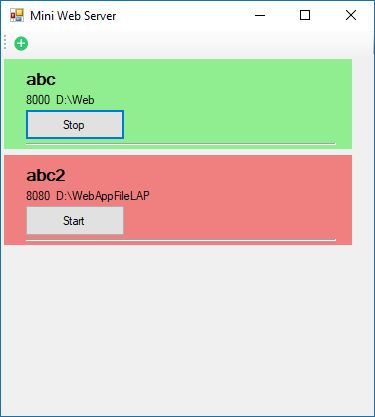
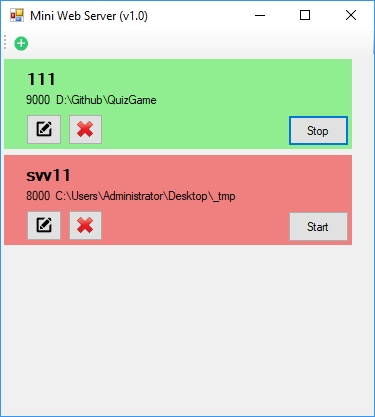
Update UI

diff --git a/MiniWebServer/Components/WebListItem.Designer.cs b/MiniWebServer/Components/WebListItem.Designer.cs
@@ -28,11 +28,14 @@
         /// </summary>
         private void InitializeComponent()
         {
+            this.components = new System.ComponentModel.Container();
+            System.ComponentModel.ComponentResourceManager resources = new System.ComponentModel.ComponentResourceManager(typeof(WebListItem));
             this.btnStart = new System.Windows.Forms.Button();
             this.lblPath = new System.Windows.Forms.Label();
             this.lblName = new System.Windows.Forms.Label();
             this.btnRemove = new System.Windows.Forms.Button();
             this.btnUpdate = new System.Windows.Forms.Button();
+            this.toolTip1 = new System.Windows.Forms.ToolTip(this.components);
             this.SuspendLayout();
             // 
             // btnStart
@@ -68,21 +71,23 @@
             // 
             // btnRemove
             // 
-            this.btnRemove.Location = new System.Drawing.Point(21, 55);
+            this.btnRemove.Image = ((System.Drawing.Image)(resources.GetObject("btnRemove.Image")));
+            this.btnRemove.Location = new System.Drawing.Point(64, 55);
             this.btnRemove.Name = "btnRemove";
-            this.btnRemove.Size = new System.Drawing.Size(61, 31);
+            this.btnRemove.Size = new System.Drawing.Size(35, 31);
             this.btnRemove.TabIndex = 6;
-            this.btnRemove.Text = "Remove";
+            this.toolTip1.SetToolTip(this.btnRemove, "Remove");
             this.btnRemove.UseVisualStyleBackColor = true;
             this.btnRemove.Click += new System.EventHandler(this.btnRemove_Click);
             // 
             // btnUpdate
             // 
-            this.btnUpdate.Location = new System.Drawing.Point(88, 56);
+            this.btnUpdate.Image = ((System.Drawing.Image)(resources.GetObject("btnUpdate.Image")));
+            this.btnUpdate.Location = new System.Drawing.Point(22, 55);
             this.btnUpdate.Name = "btnUpdate";
-            this.btnUpdate.Size = new System.Drawing.Size(61, 31);
+            this.btnUpdate.Size = new System.Drawing.Size(36, 31);
             this.btnUpdate.TabIndex = 7;
-            this.btnUpdate.Text = "Update";
+            this.toolTip1.SetToolTip(this.btnUpdate, "Edit");
             this.btnUpdate.UseVisualStyleBackColor = true;
             this.btnUpdate.Click += new System.EventHandler(this.btnUpdate_Click);
             // 
@@ -110,5 +115,6 @@
         private System.Windows.Forms.Label lblName;
         private System.Windows.Forms.Button btnRemove;
         private System.Windows.Forms.Button btnUpdate;
+        private System.Windows.Forms.ToolTip toolTip1;
     }
 }

diff --git a/MiniWebServer/Components/WebListItem.cs b/MiniWebServer/Components/WebListItem.cs
@@ -65,7 +65,10 @@ namespace MiniWebServer.Components
 
         private void btnRemove_Click(object sender, System.EventArgs e)
         {
-            OnRemove(this);
+            if(MessageBox.Show("Are you sure you want to remove this item?", "Confirm", MessageBoxButtons.YesNo, MessageBoxIcon.Question, MessageBoxDefaultButton.Button2) == DialogResult.Yes)
+            {
+                OnRemove(this);
+            }
         }
 
         private void btnUpdate_Click(object sender, System.EventArgs e)
